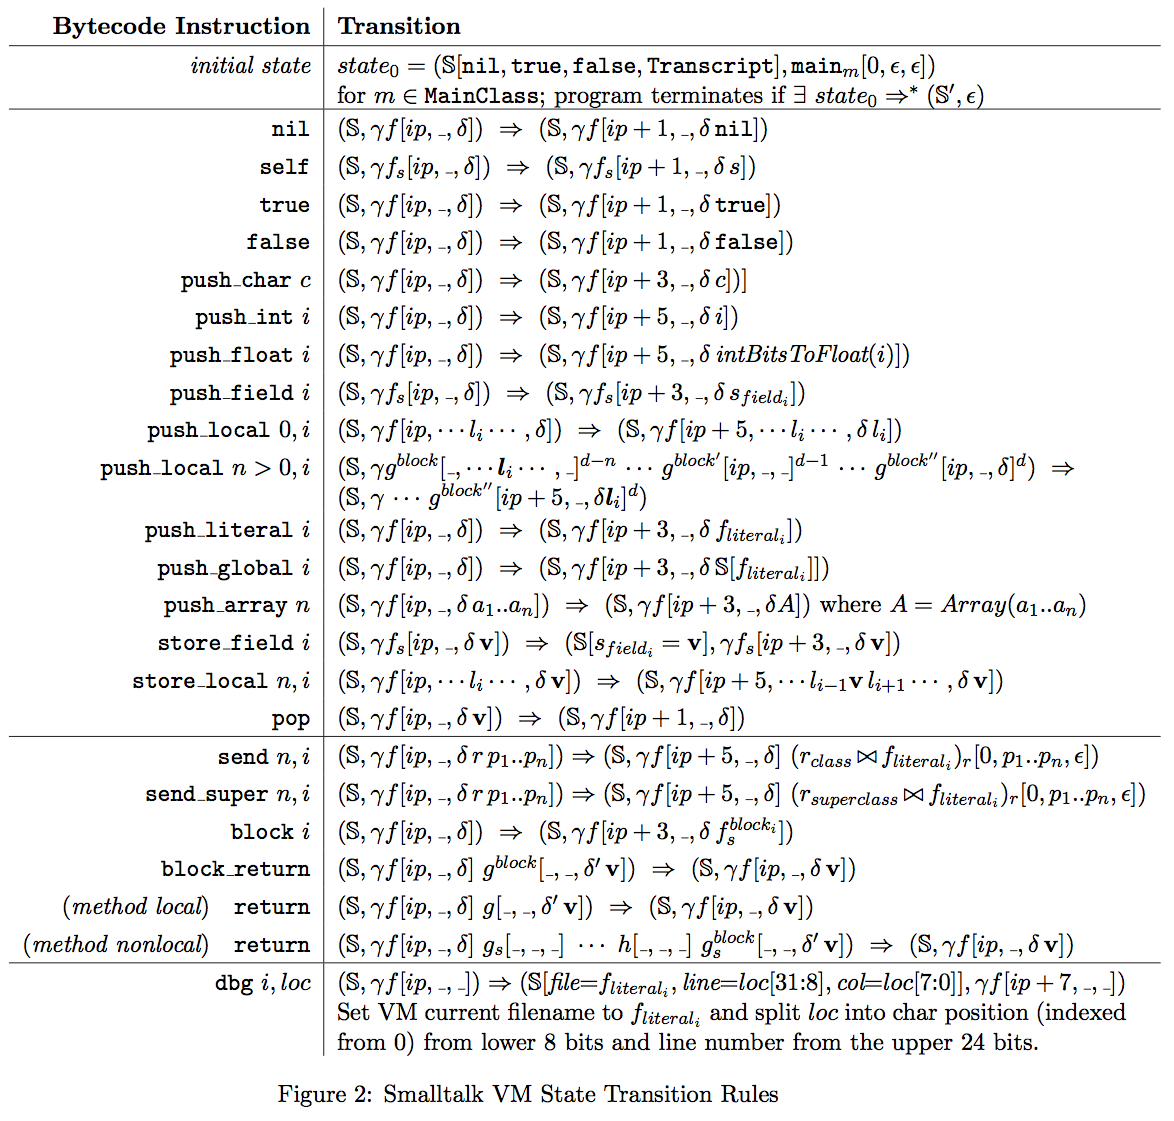
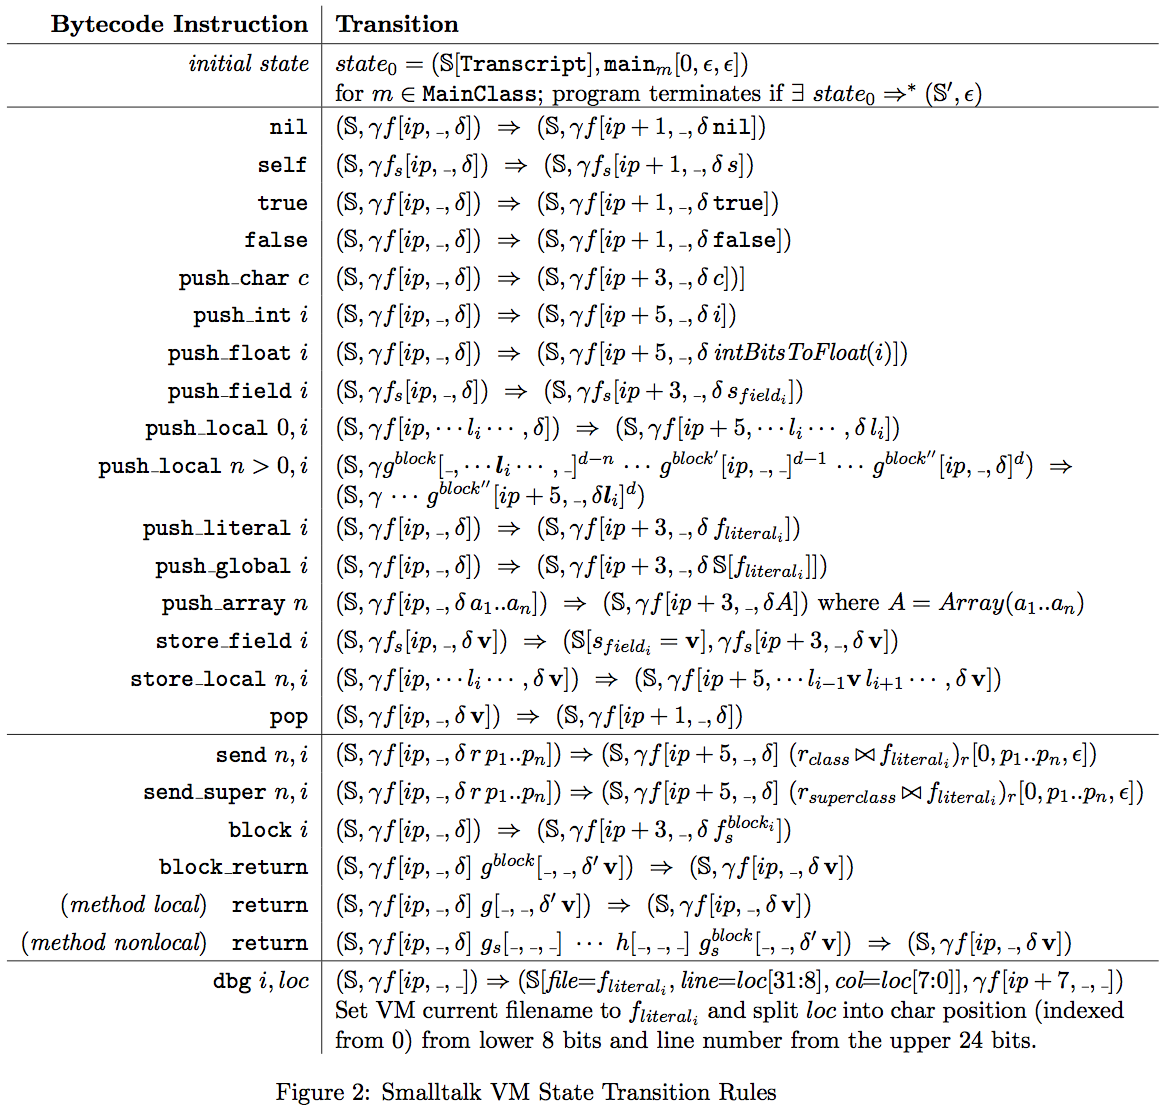
update rules

Changed region(s): [[0.0, 0.0, 0.988, 1.0]]

diff --git a/projects/bytecode.tex b/projects/bytecode.tex
@@ -91,7 +91,7 @@ $f[ip,\_,\_]$ & A method invitation context with ``don't care'' for locals and o
 \hline
 {\em initial state} &
 \begin{minipage}[t]{.7\linewidth}
-$state_0 = (\mathbb{S}[\text{\tt nil}, \text{\tt true}, \text{\tt false}, \text{\tt Transcript}], \text{\tt main}_{m}[0,\epsilon,\epsilon])$\\
+$state_0 = (\mathbb{S}[\text{\tt Transcript}], \text{\tt main}_{m}[0,\epsilon,\epsilon])$\\
 for $m \in \text{\tt MainClass}$; program terminates if $\exists~ state_0 \Rightarrow^* (\mathbb{S'}, \epsilon)$ 
 \end{minipage}\\
 \hline

diff --git a/projects/smalltalk.md b/projects/smalltalk.md
@@ -141,7 +141,7 @@ The numbers on the left are the addresses of the instructions. The first instruc
 
 ### Compilation
 
-<img src="images/smalltalk-blocks.png" width="800" align=middle>
+<img src="images/smalltalk-blocks.png" width="700" align=middle>
 
 <img src="images/smalltalk-expr.png" width="700" align=middle>
 
